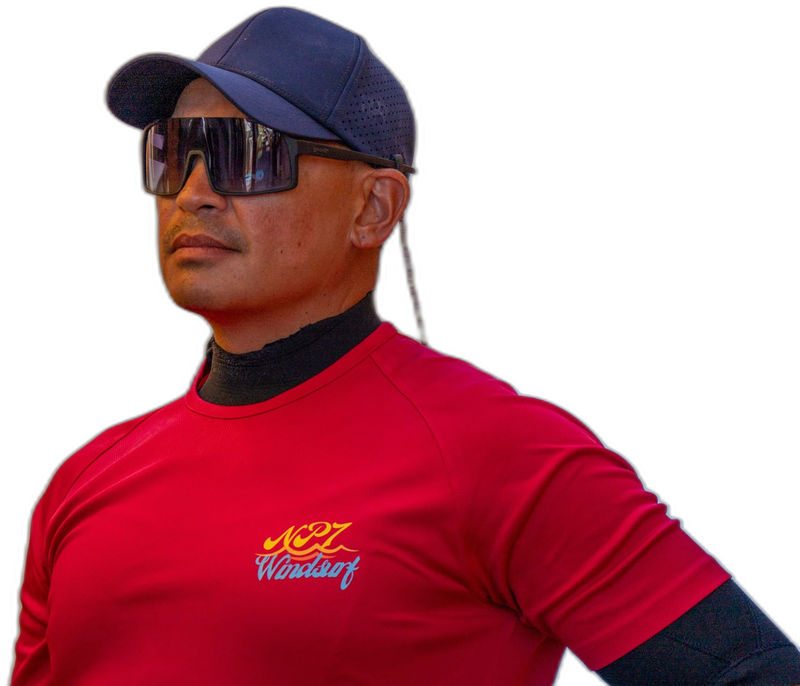
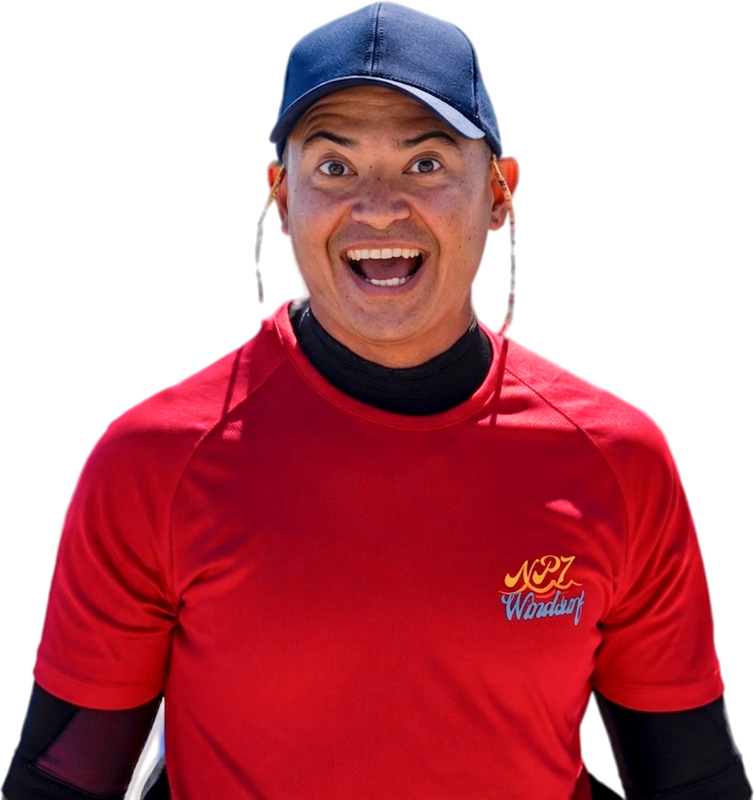
feat(booking): the gear choice — Rental (included) · Storage · Own gear
Model A, decided today: base prices keep rental baked in, nothing is
repriced and nothing retroactive. The picker gets a '3 · Gear' radio
(default: rental — included, ±0); storage and own-gear quote as DELTAS
from the governing components' sell prices (server-resolved: edition scope
→ year scope → experience-wide, beginner packages take the Beginner rental
where one exists). Choosing away from rental writes ONE delta add-on row
referencing the real component — relational, as asked — so member plan,
invoices and P&L see exactly what happened. Editions without built gear
components show no choice at all. Migration 185 applied; the existing
rental/storage components of all four web experiences are flagged.

Plus: Dennis gets his new photo (R2) and a fresh cutout from it.

diff --git a/src/components/experience/package-picker.tsx b/src/components/experience/package-picker.tsx
@@ -89,6 +89,7 @@ const DEFAULT_INCLUDES = [
 type Quote = {
   price: number; deposit: number; downpaymentPercent: number; refundDays: number;
   milestones: { kind: string; label: string; amount: number; dueLabel: string; dueDate: string | null }[];
+  gear?: { choice: string; rentalName: string; storageDelta: number | null; noneDelta: number } | null;
 };
 
 export function PackagePicker({ packages, extras = [], currency = "EUR", reserve, heroImage, launch }: Props & { launch?: { pct: number; until?: string | null; label?: string } | null }) {
@@ -103,6 +104,8 @@ export function PackagePicker({ packages, extras = [], currency = "EUR", reserve
   // viewport bottom while scrolling down — scrolling up rolls the head back in.
   // Ticked booking-time extras — ids the reserve POST sends verbatim.
   const [pickedExtras, setPickedExtras] = useState<Set<string>>(new Set());
+  // rental | storage | none — rental is the default and the included state.
+  const [gear, setGear] = useState<"rental" | "storage" | "none">("rental");
   const extrasSum = extras.filter((x) => pickedExtras.has(x.id)).reduce((n2, x) => n2 + x.price, 0);
   const summaryRef = useRef<HTMLElement | null>(null);
   const [summaryTop, setSummaryTop] = useState(124);
@@ -202,7 +205,7 @@ export function PackagePicker({ packages, extras = [], currency = "EUR", reserve
   useEffect(() => {
     if (!selectedId) { setQuote(null); return; }
     const extrasKey = [...pickedExtras].sort().join(",");
-    const key = `${selectedId}:${reserve?.editionId ?? ""}:${extrasKey}`;
+    const key = `${selectedId}:${reserve?.editionId ?? ""}:${extrasKey}:${gear}`;
     const cached = quoteCache.current.get(key);
     if (cached) { setQuote(cached); return; }
     setQuote(null);
@@ -210,6 +213,7 @@ export function PackagePicker({ packages, extras = [], currency = "EUR", reserve
     const qs = new URLSearchParams({ packageId: selectedId });
     if (reserve?.editionId) qs.set("editionId", reserve.editionId);
     if (extrasKey) qs.set("extras", extrasKey);
+    if (gear !== "rental") qs.set("gear", gear);
     fetch(`/api/register/quote?${qs}`)
       .then((r) => (r.ok ? r.json() : null))
       .then((d) => {
@@ -219,7 +223,7 @@ export function PackagePicker({ packages, extras = [], currency = "EUR", reserve
       })
       .catch(() => {});
     return () => { dead = true; };
-  }, [selectedId, reserve?.editionId, pickedExtras]);
+  }, [selectedId, reserve?.editionId, pickedExtras, gear]);
 
   const onLevel = (lv: string) => {
     setLevel(lv);
@@ -430,11 +434,44 @@ export function PackagePicker({ packages, extras = [], currency = "EUR", reserve
           </div>
         </div>
 
+        {/* the gear choice — Model A: rental is IN the package price, the
+            radio only ever writes a DELTA. Deltas come from the quote (server
+            truth), so this section appears once the quote knows the gear
+            components of this week. */}
+        {quote?.gear && (
+          <div>
+            <p className="text-[11px] font-bold tracking-[0.2em] uppercase text-[#9aa6ac] mb-3">3 · Gear</p>
+            <div className="space-y-2">
+              {([
+                { key: "rental" as const, title: "Rental gear — included", sub: quote.gear.rentalName, delta: 0 },
+                ...(quote.gear.storageDelta != null ? [{ key: "storage" as const, title: "I bring my own — store it at the spot", sub: "Rig stays rigged at the centre", delta: quote.gear.storageDelta }] : []),
+                { key: "none" as const, title: "I bring my own — no storage", sub: "You handle your gear yourself", delta: quote.gear.noneDelta },
+              ]).map((opt) => (
+                <button key={opt.key} type="button" onClick={() => setGear(opt.key)}
+                  className={`w-full flex items-center justify-between gap-3 rounded-xl border-2 px-4 py-3.5 text-left transition-colors ${gear === opt.key ? "border-[#00afdb] bg-[#00afdb]/[0.05]" : "border-[#e6eef0] bg-white hover:border-[#bfe8f3]"}`}>
+                  <span className="flex items-start gap-3 min-w-0">
+                    <span className={`mt-0.5 shrink-0 w-4 h-4 rounded-full border-2 grid place-items-center ${gear === opt.key ? "border-[#00afdb]" : "border-[#cbd5d9]"}`}>
+                      {gear === opt.key && <span className="w-2 h-2 rounded-full bg-[#00afdb]" />}
+                    </span>
+                    <span className="min-w-0">
+                      <span className="block font-bold text-[#00374a]">{opt.title}</span>
+                      <span className="block text-[12.5px] text-[#5a6b72] leading-snug">{opt.sub}</span>
+                    </span>
+                  </span>
+                  <span className={`shrink-0 font-bold tabular-nums ${opt.delta < 0 ? "text-[#0a9a6a]" : "text-[#00374a]"}`}>
+                    {opt.delta === 0 ? "included" : `${opt.delta > 0 ? "+" : "−"}${fmt(Math.abs(opt.delta))}`}
+                  </span>
+                </button>
+              ))}
+            </div>
+          </div>
+        )}
+
         {/* booking-time extras — one checkbox each; ticking creates a real
             add-on on the booking, so every money surface already knows it */}
         {extras.length > 0 && (
           <div>
-            <p className="text-[11px] font-bold tracking-[0.2em] uppercase text-[#9aa6ac] mb-3">3 · Extras — optional</p>
+            <p className="text-[11px] font-bold tracking-[0.2em] uppercase text-[#9aa6ac] mb-3">4 · Extras — optional</p>
             <div className="space-y-2">
               {extras.map((x) => {
                 const on = pickedExtras.has(x.id);
@@ -486,6 +523,12 @@ export function PackagePicker({ packages, extras = [], currency = "EUR", reserve
           ))}
         </ul>
 
+        {quote?.gear && gear !== "rental" && (
+          <div className="mb-2 flex items-center justify-between gap-3 text-[13px] text-white/80">
+            <span className="min-w-0 truncate">{gear === "storage" ? "Own gear + storage" : "Own gear — rental removed"}</span>
+            <span className="shrink-0 font-bold tabular-nums text-[#8fe6f2]">{(gear === "storage" ? (quote.gear.storageDelta ?? 0) : quote.gear.noneDelta) > 0 ? "+" : "−"}{fmt(Math.abs((gear === "storage" ? (quote.gear.storageDelta ?? 0) : quote.gear.noneDelta)))}</span>
+          </div>
+        )}
         {extras.filter((x) => pickedExtras.has(x.id)).length > 0 && (
           <ul className="mb-4 space-y-1.5">
             {extras.filter((x) => pickedExtras.has(x.id)).map((x) => (
@@ -504,7 +547,7 @@ export function PackagePicker({ packages, extras = [], currency = "EUR", reserve
                 <s className="block text-[14px] font-semibold text-white/35 leading-none mb-1">{fmt(selected.price)}</s>
               )}
               <span className="block text-3xl font-black tracking-[-0.02em] tabular-nums leading-none">
-                {selected ? fmt((launch ? lp(selected.price) : selected.price) + extrasSum) : "—"}
+                {selected ? fmt((launch ? lp(selected.price) : selected.price) + extrasSum + (quote?.gear && gear !== "rental" ? (gear === "storage" ? (quote.gear.storageDelta ?? 0) : quote.gear.noneDelta) : 0)) : "—"}
               </span>
             </span>
           </div>
@@ -562,7 +605,8 @@ export function PackagePicker({ packages, extras = [], currency = "EUR", reserve
               packageId: selected.id,
               level,
               accommodation: selected.accommodation,
-              price: lp(selected.price) + extrasSum,
+              price: lp(selected.price) + extrasSum + (quote?.gear && gear !== "rental" ? (gear === "storage" ? (quote.gear.storageDelta ?? 0) : quote.gear.noneDelta) : 0),
+              gear,
               extras: [...pickedExtras],
               extrasLabel: extras.filter((x) => pickedExtras.has(x.id)).map((x) => x.name).join(" · ") || null,
               currency,

diff --git a/src/lib/gear-choice.ts b/src/lib/gear-choice.ts
@@ -1,0 +1,79 @@
+import "server-only";
+import { createAdminClient } from "@/lib/supabase";
+
+/**
+ * The booking-time gear choice — Model A (Nico, 2026-08-26).
+ *
+ * Base package prices KEEP the rental baked in (nothing repriced, nothing
+ * retroactive). The public flow offers Rental (included, ±0) · Storage ·
+ * Own gear; choosing away from rental writes ONE delta add-on row that
+ * references the real component (sell_price is the customer truth —
+ * unit_cost stays internal). Editions whose components aren't built yet
+ * resolve to nothing and simply show no choice.
+ */
+
+export type GearComponent = { id: string; name: string; sell: number };
+export type GearInfo = { rental: GearComponent | null; storage: GearComponent | null };
+export type GearChoice = "rental" | "storage" | "none";
+
+/**
+ * The components governing this edition + package level.
+ * Scope priority: edition-scoped → year-scoped → experience-wide; beginner
+ * packages take a "…Beginner" rental when one exists (Alaçatı prices differ
+ * by level — the name carries that fact today).
+ */
+export async function resolveGearInfo(
+  experienceId: string,
+  editionId: string | null,
+  level: string | null,
+): Promise<GearInfo> {
+  // eslint-disable-next-line @typescript-eslint/no-explicit-any
+  const db = createAdminClient() as any;
+  let year: string | null = null;
+  if (editionId) {
+    const { data: ed } = await db.from("exp_editions").select("date_start").eq("id", editionId).maybeSingle();
+    year = ed?.date_start ? String(new Date(ed.date_start).getUTCFullYear()) : null;
+  }
+  const { data } = await db
+    .from("exp_components")
+    .select("id,name,sell_price,gear_option,edition_id,year,experience_id,is_global")
+    .not("gear_option", "is", null)
+    .is("archived_at", null);
+  // eslint-disable-next-line @typescript-eslint/no-explicit-any
+  const mine = ((data ?? []) as any[]).filter((c) => c.is_global || c.experience_id === experienceId);
+  // eslint-disable-next-line @typescript-eslint/no-explicit-any
+  const rank = (c: any): number =>
+    c.edition_id
+      ? (editionId && c.edition_id === editionId ? 0 : 99)
+      : Array.isArray(c.year) && c.year.length
+        ? (year && c.year.map(String).includes(year) ? 1 : 99)
+        : 2;
+  const eligible = mine.filter((c) => rank(c) < 99 && Number(c.sell_price) > 0);
+
+  const pick = (kind: "rental" | "storage"): GearComponent | null => {
+    let list = eligible.filter((c) => c.gear_option === kind);
+    if (kind === "rental" && level) {
+      const forLevel = list.filter((c) =>
+        level === "beginner" ? /beginner/i.test(String(c.name)) : !/beginner/i.test(String(c.name)),
+      );
+      if (forLevel.length) list = forLevel;
+    }
+    list.sort((a, b) => rank(a) - rank(b));
+    const c = list[0];
+    return c ? { id: String(c.id), name: String(c.name), sell: Number(c.sell_price) } : null;
+  };
+  return { rental: pick("rental"), storage: pick("storage") };
+}
+
+const round2 = (n: number) => Math.round((n + Number.EPSILON) * 100) / 100;
+
+/** Price delta vs the included rental. Rental (or no gear info) = 0. */
+export function gearDelta(info: GearInfo, gear: GearChoice): number {
+  if (gear === "rental" || !info.rental) return 0;
+  if (gear === "storage") return info.storage ? round2(info.storage.sell - info.rental.sell) : 0;
+  return round2(-info.rental.sell);
+}
+
+export function parseGearChoice(raw: unknown): GearChoice {
+  return raw === "storage" || raw === "none" ? raw : "rental";
+}

diff --git a/src/app/api/register/route.ts b/src/app/api/register/route.ts
@@ -2,6 +2,7 @@ import { NextRequest, NextResponse } from "next/server";
 import { bookingPrice } from "@/lib/tier-perks";
 import { after } from "next/server";
 import { checkBotId } from "botid/server";
+import { resolveGearInfo, gearDelta, parseGearChoice } from "@/lib/gear-choice";
 import { createAdminClient } from "@/lib/supabase";
 import { sendEmail } from "@/lib/email/send";
 import { getPortalUser } from "@/lib/auth";
@@ -25,6 +26,8 @@ type Body = {
   /** Booking-time extras (component ids) the guest ticked — validated
       server-side against offer_at_booking, prices come from the DB. */
   extras?: string[];
+  /** Gear choice — rental (default, included) | storage | none. */
+  gear?: string;
   experienceId?: string;
   editionId?: string;
   packageId?: string;
@@ -121,7 +124,7 @@ export async function POST(request: NextRequest) {
   // Validate the selection server-side.
   const [{ data: exp }, { data: pkg }, { data: edition }] = await Promise.all([
     db.from("exp_experiences").select("id,title,slug").eq("id", experienceId).maybeSingle(),
-    db.from("exp_packages").select("id,name,price,experience_id,status,deposit,deposit_refund_days").eq("id", packageId).maybeSingle(),
+    db.from("exp_packages").select("id,name,price,experience_id,status,deposit,deposit_refund_days,category").eq("id", packageId).maybeSingle(),
     editionId
       ? db.from("exp_editions").select("id,label,experience_id,date_start,deposit,launch_discount_pct,launch_price_until").eq("id", editionId).maybeSingle()
       : Promise.resolve({ data: null }),
@@ -177,6 +180,30 @@ export async function POST(request: NextRequest) {
   const { data: booking, error: bErr } = await db
     .from("exp_bookings").insert({ ...bookingPayload, status: "lead" }).select("id").single();
   if (bErr) return bad("Could not complete your registration. Please try again.", 500);
+
+  // Gear choice (Model A): rental is included in the package price — only a
+  // choice AWAY from it writes a row: ONE delta add-on referencing the real
+  // component, so ops, invoices and P&L all see what happened.
+  const gearChoice = parseGearChoice(body.gear);
+  if (gearChoice !== "rental") {
+    try {
+      const gearInfo = await resolveGearInfo(exp.id, editionId ?? null, (pkg as { category?: string | null }).category ?? null);
+      const delta = gearDelta(gearInfo, gearChoice);
+      if (gearInfo.rental && delta !== 0) {
+        await db.from("exp_booking_addons").insert({
+          booking_id: booking.id,
+          component_id: gearChoice === "storage" && gearInfo.storage ? gearInfo.storage.id : gearInfo.rental.id,
+          label: gearChoice === "storage"
+            ? "Gear storage — included rental swapped out"
+            : "Own gear — included rental removed",
+          price: delta,
+          status: "confirmed",
+          source: "booking",
+          payment_mode: "np7",
+        }).then(undefined, () => {});
+      }
+    } catch { /* no gear components built for this edition — nothing to record */ }
+  }
 
   // Booking-time extras → confirmed add-on rows on the existing rails
   // (member plan, invoices and the add-on invoice all read these).

diff --git a/src/app/api/register/quote/route.ts b/src/app/api/register/quote/route.ts
@@ -1,5 +1,6 @@
 import { NextRequest, NextResponse } from "next/server";
 import { bookingPrice } from "@/lib/tier-perks";
+import { resolveGearInfo, gearDelta, parseGearChoice } from "@/lib/gear-choice";
 import { getPortalUser } from "@/lib/auth";
 import { createAdminClient } from "@/lib/supabase";
 import { computePaymentPlan, PAYMENT_DEFAULTS } from "@/lib/payments";
@@ -23,7 +24,7 @@ export async function GET(request: NextRequest) {
   const db = createAdminClient() as any;
   const [{ data: pkg }, { data: edition }] = await Promise.all([
     db.from("exp_packages")
-      .select("id,price,status,deposit,deposit_refund_days,downpayment_percent,final_days_before")
+      .select("id,price,status,deposit,deposit_refund_days,downpayment_percent,final_days_before,category,experience_id")
       .eq("id", packageId).maybeSingle(),
     editionId
       ? db.from("exp_editions").select("id,experience_id,deposit,date_start,launch_discount_pct,launch_price_until").eq("id", editionId).maybeSingle()
@@ -70,16 +71,33 @@ export async function GET(request: NextRequest) {
       .reduce((n2, c) => n2 + Number(c.sell_price), 0);
   }
 
+  // The gear choice (Model A): rental is IN the package (±0); storage / own
+  // gear quote as a delta from the governing components' sell prices.
+  const gearChoice = parseGearChoice(sp.get("gear"));
+  const gearInfo = await resolveGearInfo(
+    (pkg.experience_id as string | null) ?? edition?.experience_id ?? "",
+    editionId || null,
+    (pkg.category as string | null) ?? null,
+  );
+  const gDelta = gearDelta(gearInfo, gearChoice);
+
   const plan = computePaymentPlan(cfg, {
-    total: total + extrasTotal,
+    total: total + extrasTotal + gDelta,
     paidAmount: 0,
     bookedAt: today,
     editionStart: edition?.date_start ?? null,
   });
 
   return NextResponse.json({
-    price: total + extrasTotal,
+    price: total + extrasTotal + gDelta,
     extrasTotal,
+    // What the picker renders the choice from — deltas only, never raw costs.
+    gear: gearInfo.rental ? {
+      choice: gearChoice,
+      rentalName: gearInfo.rental.name,
+      storageDelta: gearInfo.storage ? gearDelta(gearInfo, "storage") : null,
+      noneDelta: gearDelta(gearInfo, "none"),
+    } : null,
     deposit: cfg.deposit ?? PAYMENT_DEFAULTS.deposit,
     downpaymentPercent: cfg.downpayment_percent ?? PAYMENT_DEFAULTS.downpaymentPercent,
     refundDays: cfg.deposit_refund_days ?? PAYMENT_DEFAULTS.depositRefundDays,

diff --git a/src/components/experience/reserve-modal.tsx b/src/components/experience/reserve-modal.tsx
@@ -26,6 +26,8 @@ export type ReserveContext = {
   level: string;
   accommodation: string;
   price: number;
+  /** Gear choice — rental (default) | storage | none; priced server-side. */
+  gear?: "rental" | "storage" | "none";
   /** Ticked booking-time extras (component ids) — sent verbatim, priced server-side. */
   extras?: string[];
   extrasLabel?: string | null;
@@ -117,6 +119,7 @@ export function ReserveModal({ ctx, onClose }: { ctx: ReserveContext; onClose: (
           experienceId: ctx.experienceId,
           editionId: ctx.editionId,
           packageId: ctx.packageId,
+          gear: ctx.gear ?? "rental",
           extras: ctx.extras ?? [],
           firstName, lastName, email, marketingOptIn,
           trap, filledMs: Date.now() - openedAt,
